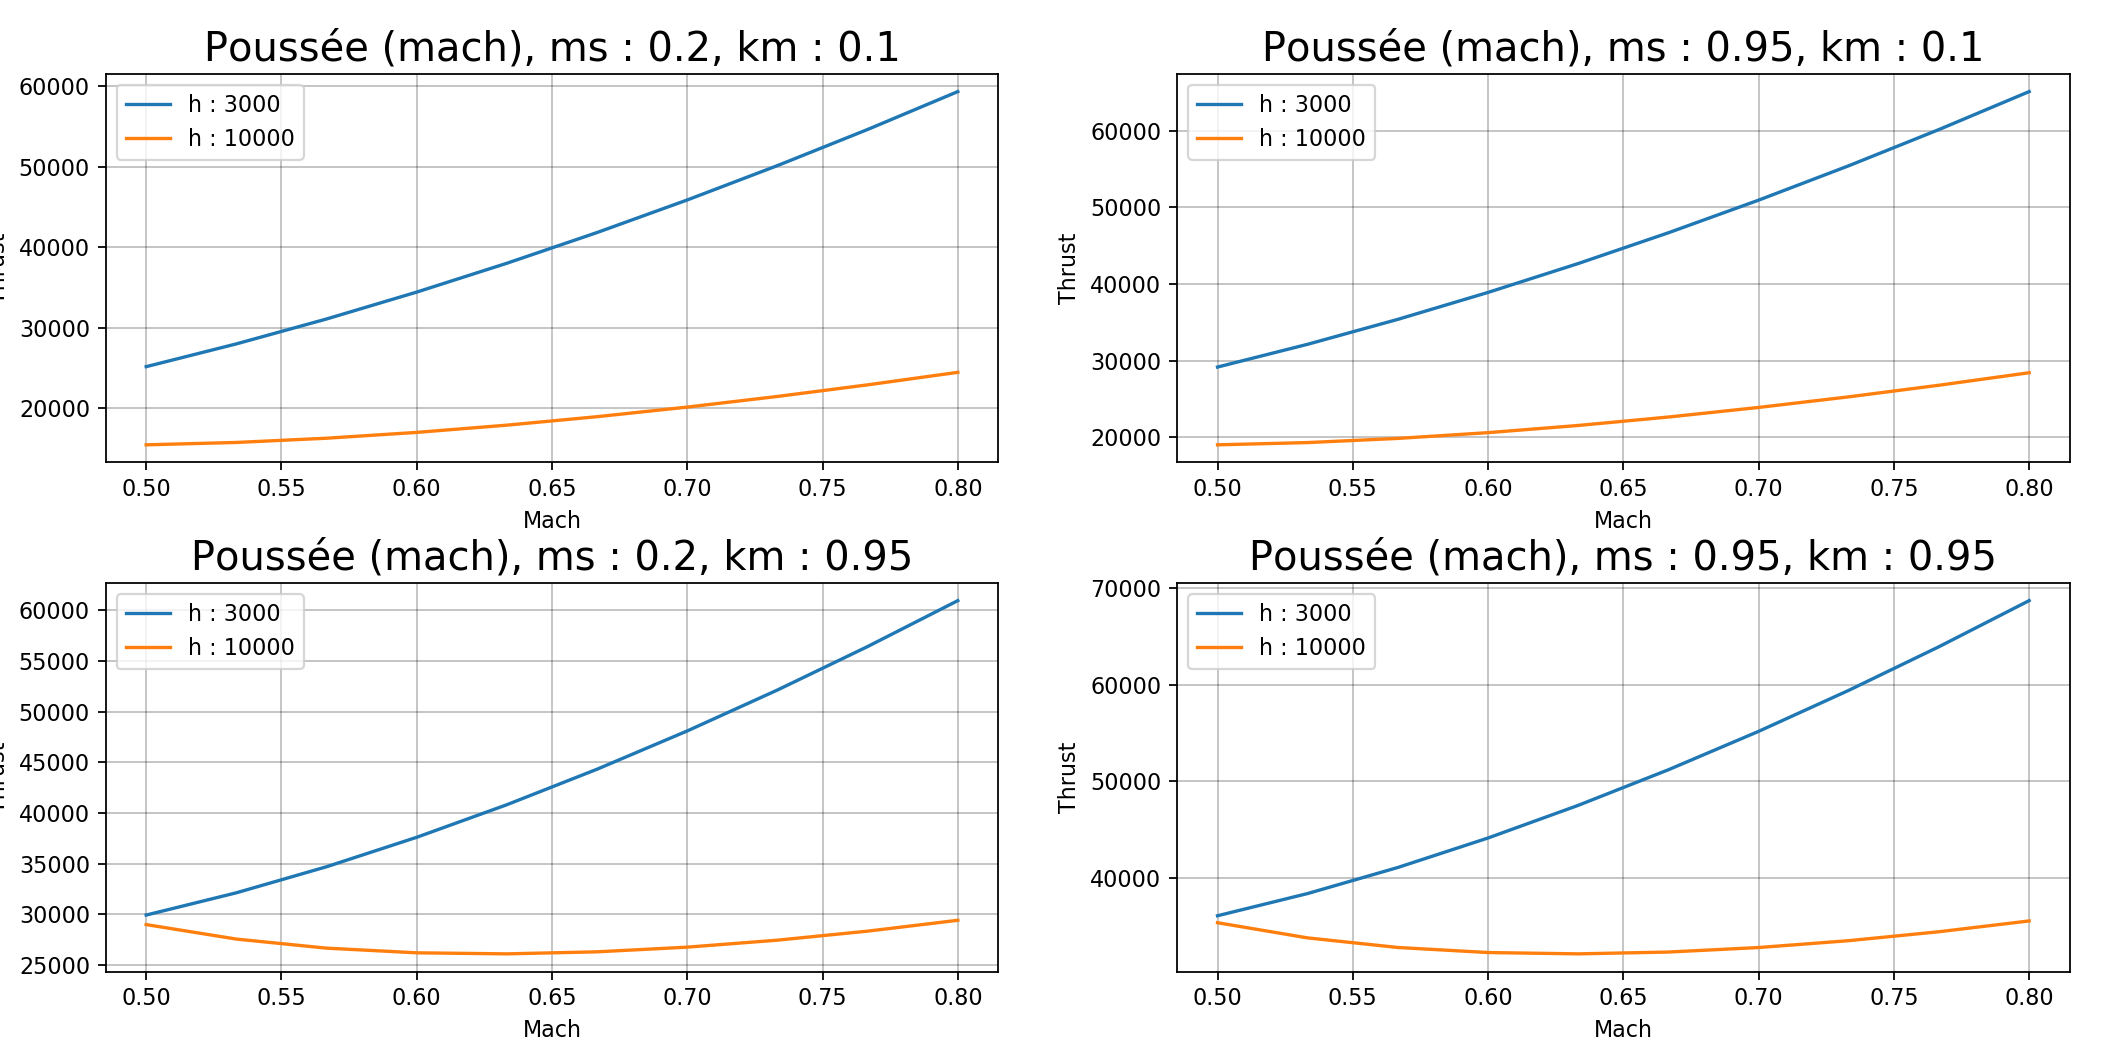
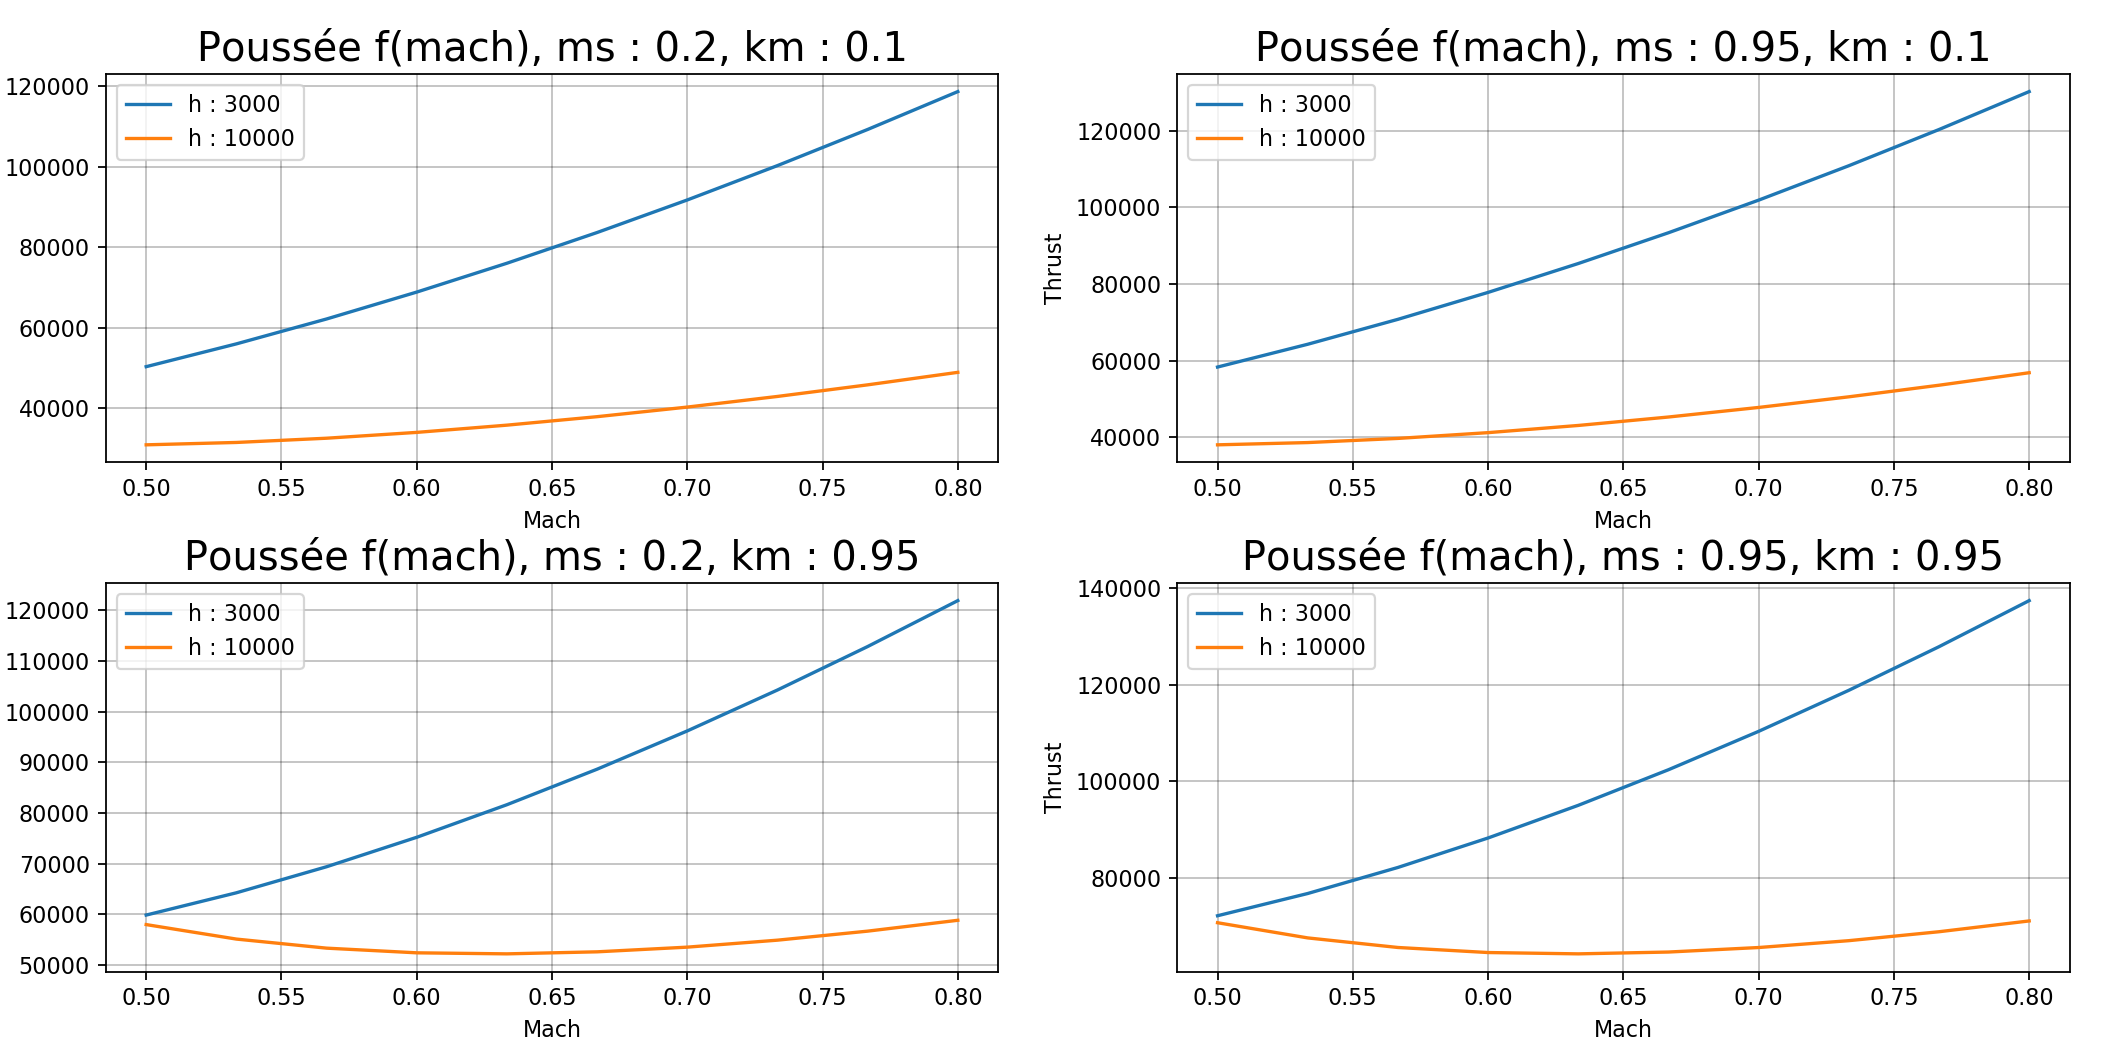
Correction poussée des moteurs

diff --git a/seance_2.py b/seance_2.py
@@ -43,21 +43,21 @@ def plot_all_trims(aircraft, hs, Mas, sms, kms, trims, filename=None):
                 for j, Ma in enumerate(Mas):
                     alpha, dphr, dth = trims[i, j, k, l]
                     fmt = 'alt {:5.0f}, Ma {:.1f}, sm {:.1f}, km {:.1f} -> alpha {:5.2f} deg, phr {:-5.1f} deg, throttle {:.1f} %'
-                    print(fmt.format(h, Ma, sm, km, ut.deg_of_rad(alpha), ut.deg_of_rad(dphr), 100 * dth))
+                    # print(fmt.format(h, Ma, sm, km, ut.deg_of_rad(alpha), ut.deg_of_rad(dphr), 100 * dth))
             ax = plt.subplot(4, 3, 3 * m + 1)
             plt.plot(hs, ut.deg_of_rad(trims[:, 0, k, l, 0]))
             plt.plot(hs, ut.deg_of_rad(trims[:, 1, k, l, 0]))
-            ut.decorate(ax, r'$sm {} \quad km {}$'.format(sm, km), r'altitude', r'$\alpha$ deg',
+            ut.decorate(ax, r'$sm : {} \quad km : {}$'.format(sm, km), r'altitude', r'$\alpha$ deg',
                         legend=['Mach {}'.format(Ma) for Ma in Mas])
             ax = plt.subplot(4, 3, 3 * m + 2)
             plt.plot(hs, ut.deg_of_rad(trims[:, 0, k, l, 1]))
             plt.plot(hs, ut.deg_of_rad(trims[:, 1, k, l, 1]))
-            ut.decorate(ax, r'$sm {} \quad km {}$'.format(sm, km), r'altitude', r'$\delta_{phr}$ deg',
+            ut.decorate(ax, r'$sm : {} \quad km : {}$'.format(sm, km), r'altitude', r'$\delta_{phr}$ deg',
                         legend=['Mach {}'.format(Ma) for Ma in Mas])
             ax = plt.subplot(4, 3, 3 * m + 3)
             plt.plot(hs, trims[:, 0, k, l, 2] * 100)
             plt.plot(hs, trims[:, 1, k, l, 2] * 100)
-            ut.decorate(ax, r'$sm {} \quad km {}$'.format(sm, km), r'altitude', 'throttle %',
+            ut.decorate(ax, r'$sm : {} \quad km : {}$'.format(sm, km), r'altitude', 'throttle %',
                         legend=['Mach {}'.format(Ma) for Ma in Mas])
             m = m + 1
     if filename is not None:
@@ -121,7 +121,7 @@ def plot_trims(aircraft, sms, kms, filename=None):
         aircraft.set_mass_and_static_margin(km, ms)
         va = dyn.va_of_mach(mach, h)
         X, U = dyn.trim(aircraft, {'va': va, 'h': h, 'gamma': 0})
-        return dyn.propulsion_model(X, U, aircraft)
+        return 2 * dyn.propulsion_model(X, U, aircraft)
 
     figure = ut.prepare_fig(None, 'Poussée en fonction du mach {name}'.format(name=aircraft.name),
                             margins=(0.05, 0.08, 0.98, 0.93, 0.2, 0.31))
@@ -134,7 +134,7 @@ def plot_trims(aircraft, sms, kms, filename=None):
             for h in hs:
                 thrusts = [thrust(mach, h, ms, km) for mach in machs]
                 plt.plot(machs, thrusts)
-                ut.decorate(ax, 'Poussée (mach), ms : {}, km : {}'.format(ms, km), 'Mach', 'Thrust',
+                ut.decorate(ax, 'Poussée f(mach), ms : {}, km : {}'.format(ms, km), 'Mach', 'Thrust',
                             legend=['h : {}'.format(h) for h in hs])
 
     if filename is not None:
@@ -144,7 +144,7 @@ def plot_trims(aircraft, sms, kms, filename=None):
 
 if __name__ == "__main__":
     aircraft = dyn.Param_A321()
-    hs, Mas = np.linspace(3000, 11000, 2), [0.4, 0.8]
+    hs, Mas = np.linspace(3000, 11000, 20), [0.4, 0.8]
     sms, kms = [0.2, 0.95], [0.1, 0.95]
 
     trims = get_all_trims(aircraft, hs, Mas, sms, kms)
